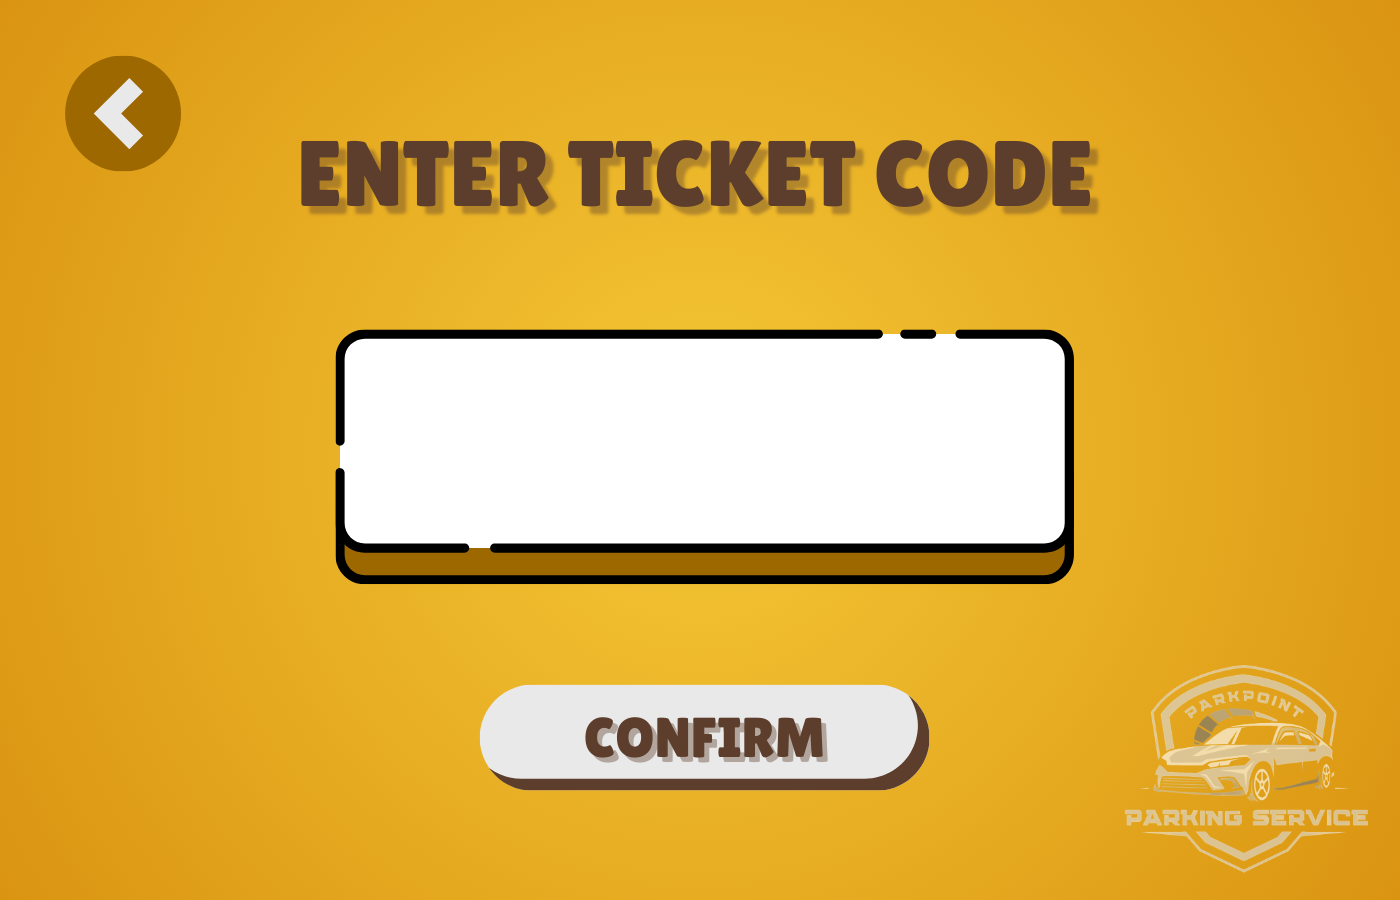
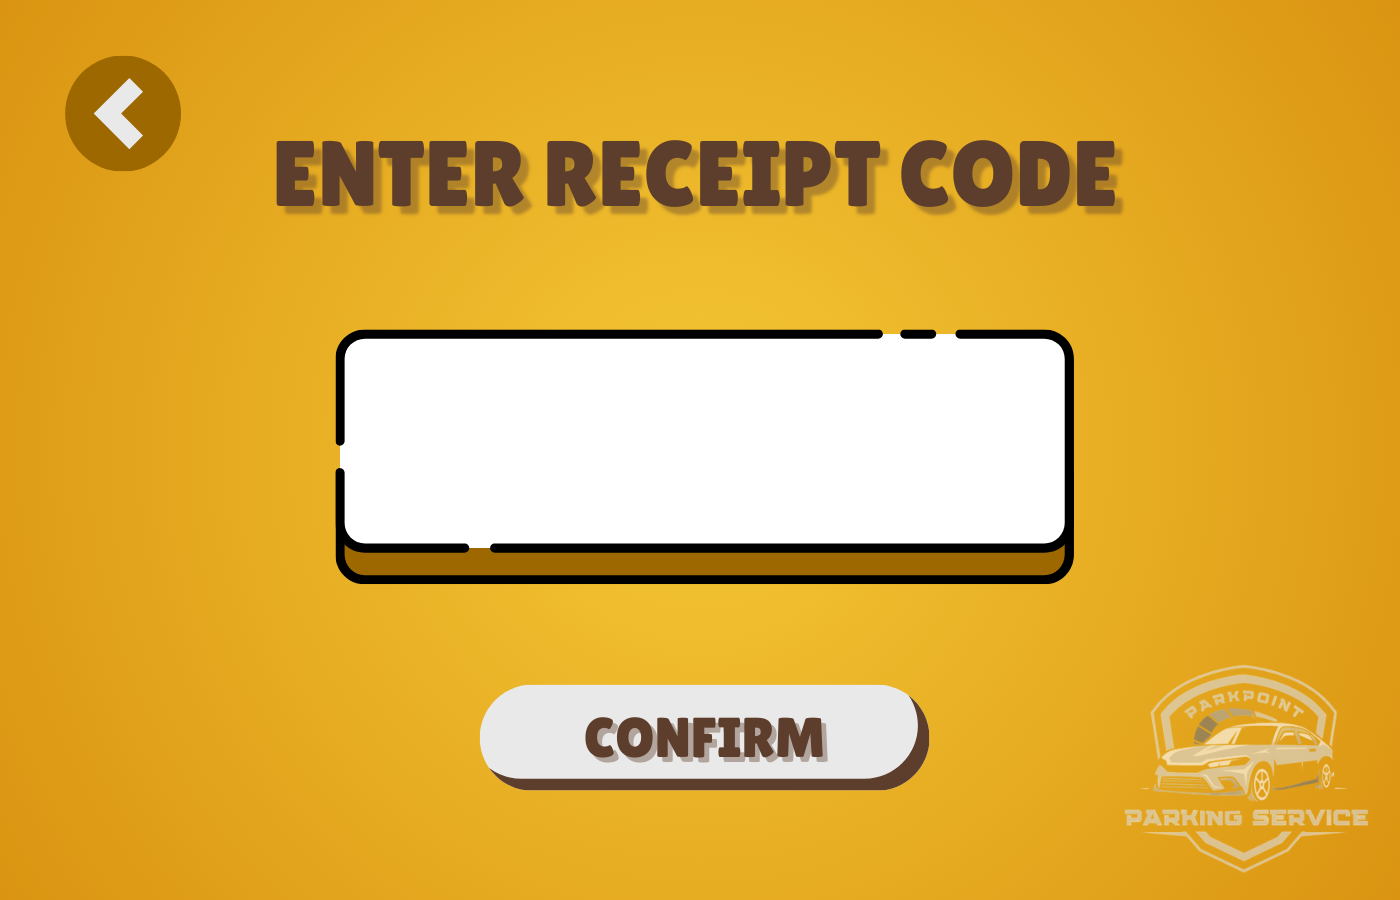
new

Changed region(s): [[0.1843, 0.1556, 0.7986, 0.2489]]

diff --git a/src/parkingsystem/P3_ENTER_TC_CODE.java b/src/parkingsystem/P3_ENTER_TC_CODE.java
@@ -53,12 +53,13 @@ public class P3_ENTER_TC_CODE extends javax.swing.JFrame {
         ticketCodeField.setFont(new java.awt.Font("Arial", 1, 48)); // NOI18N
         ticketCodeField.setHorizontalAlignment(javax.swing.JTextField.CENTER);
         ticketCodeField.setToolTipText("");
+        ticketCodeField.setBorder(javax.swing.BorderFactory.createEmptyBorder(1, 1, 1, 1));
         ticketCodeField.addActionListener(new java.awt.event.ActionListener() {
             public void actionPerformed(java.awt.event.ActionEvent evt) {
                 ticketCodeFieldActionPerformed(evt);
             }
         });
-        getContentPane().add(ticketCodeField, new org.netbeans.lib.awtextra.AbsoluteConstraints(360, 370, 690, 160));
+        getContentPane().add(ticketCodeField, new org.netbeans.lib.awtextra.AbsoluteConstraints(360, 350, 690, 180));
 
         jLabel1.setIcon(new javax.swing.ImageIcon(getClass().getResource("/MAIN_UI/ENTER_TC_CODE .png"))); // NOI18N
         getContentPane().add(jLabel1, new org.netbeans.lib.awtextra.AbsoluteConstraints(0, 0, 1400, 900));
